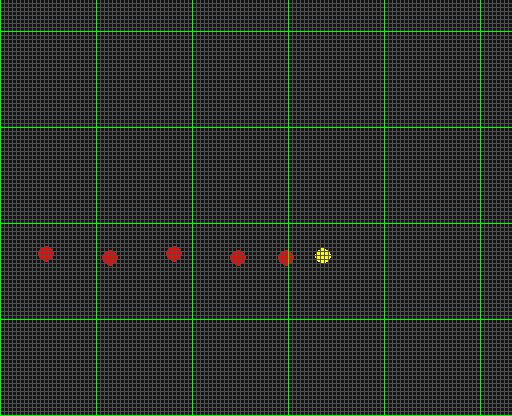
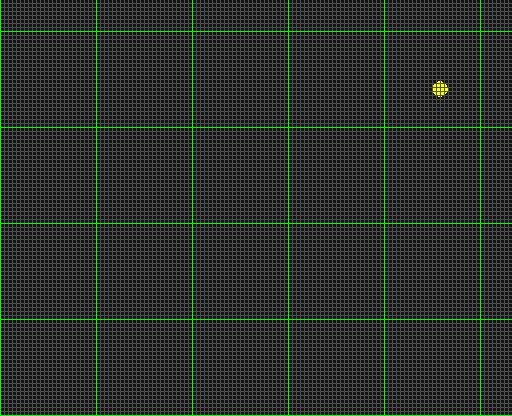
miercoles sem12

diff --git a/Trayectorias/IcivaCliente/Rejilla_Prob_Ocupacion2.py b/Trayectorias/IcivaCliente/Rejilla_Prob_Ocupacion2.py
@@ -4,13 +4,48 @@ from Trayectorias.lib.MotorLib import align, move_forward, control_w, rpd2pwm, s
 from Trayectorias.lib.SerialLib import open_port, close_port, Micro_reset, Micro_comfirm_ACK
 from Trayectorias.lib.ServerLib import *
 import matplotlib.pyplot as plt
+import time
+import numpy as np
+import cv2
 vec = pg.math.Vector2
+
+def unit_vector(vector):
+    """ Returns the unit vector of the vector.  """
+    return vector / np.linalg.norm(vector)
+
+def norm_vector(vector):
+    """ Returns the norm of the vector.  """
+    return np.linalg.norm(vector)
+
+def angle_between(v1, v2):
+    """ Returns the angle in radians between vectors 'v1' and 'v2'::
+
+    """
+    v1_u = unit_vector(v1)
+    v2_u = unit_vector(v2)
+    angle_1 = np.degrees(np.arctan2(v1_u[1], v1_u[0]))
+    angle_2 = np.degrees(np.arctan2(v2_u[1], v2_u[0]))
+    angle = np.arccos(np.dot(v1_u, v2_u))
+
+    if angle_1 < 0:
+        angle_1 = angle_1+360
+    if angle_2 < 0:
+        angle_2 = angle_2+360
+
+    angle_rest = angle_1 - angle_2
+
+    if angle_rest < 180 and angle_rest > 0: # el vector 1 esta por encima del vector 2
+        return -np.degrees(angle)
+    elif angle_rest < -180 : # el vector 1 esta por encima del vector 2
+        return -np.degrees(angle)
+    else:
+        return np.degrees(angle)
 
 Resolucion = 1 # centimetros
 
 # Medidas en metros
-Ancho_Real = 1.44 #metros (minimo 30cm )
-Largo_Real = 1.44 #metros (maximo 1.5 m)
+Ancho_Real = 1.40 #metros (minimo 30cm )b
+Largo_Real = 1.40 #metros (maximo 1.5 m)
 
 # Medidas en centimetros
 Ancho_Real = Ancho_Real*100
@@ -36,34 +71,54 @@ NAME="Rejillas Probabilísticas de Ocupación"
 
 
 game = Visualize(ancho, largo, Resolucion, TILESIZE, NAME)
-
-#port = open_port()  # puerto bluetooth
-#robot_ini, _ = get_robot_pos()  # obtener la posicion del robot
-robot_ini = np.array([50, 50])
+port = open_port()  # puerto bluetooth
+robot_ini, _, balls, enemies = get_all()  # obtener la posicion del robot
 last_pos = robot_ini
-print(robot_ini)
+print("Posicion inicial = {}".format(robot_ini))
 
 game.new()
-#game.Grid.ENEMIGO = vec(robot_ini[0]+10, robot_ini[1])
-#game.Grid.centroide = [vec(robot_ini[0], robot_ini[1]+10)]
-#game.Grid.P_Malas = [game.Grid.ENEMIGO, vec(robot_ini[0], robot_ini[1]+10)]
-#game.Grid.ICIVA = vec(robot_ini[0], robot_ini[1])
+game.Grid.P_Malas = []
 
+# game.Grid.P_Malas = [vec(50, 50)]
+for enemie in enemies:
+    x = int(enemie[0])
+    y = int(enemie[1])
+    game.Grid.P_Malas.append(vec(x, y))
+print("Malas = {}".format(game.Grid.P_Malas))
+
+for ball in balls:
+    x = int(ball[0])
+    y = int(ball[1])
+    game.Grid.centroide.append(vec(x, y))
+print(game.Grid.centroide)
+game.Grid.ICIVA = vec(int(robot_ini[0]), int(robot_ini[1]))
+
+
+FPS = 10
 #game.set_initial_state()
-while game.playing:
+while game.Bandera != 1:
     game.Clock.tick(FPS)
     game.events()
     game.update()
     game.drawing()
 print(game.TRAYECTORIA)
-
+trayectoria = game.TRAYECTORIA
 # Trayectoria obtenida
 print("Trayectoria obtenida")
 tr_obj = np.zeros([0, 2])  # array para guardar x y y de la trayectoria deseada
 tr_obj = np.append(tr_obj, [robot_ini], 0) # Primer punto de la trayectoria, la posicion actual del robot
-for centro in self.Grid.centroide:
-    tr_obj = np.append(tr_obj, [[centro.x, centro.y]], 0)
-
+i = 0
+ball_ini = trayectoria[len(trayectoria)-1]
+for centro in trayectoria:
+    point = np.array([centro[0], centro[1]])
+    ball_vector = np.array([point[0] - ball_ini[0], point[1] - ball_ini[1]])
+    dist_obj = norm_vector(ball_vector)
+    if dist_obj > 8:
+        if i == 12:
+            tr_obj = np.append(tr_obj, [point], 0)
+            i = 0
+        i = i +1
+print(tr_obj)
 # Trayectoria del robot (inicializacion vacia)
 tr_robot = np.zeros([0, 2])  # array para guardar x y y del robot
 
@@ -82,6 +137,7 @@ plt.figure(1)
 plt.xlim([0, 100])
 plt.ylim([0, 100])
 plt.scatter(tr_obj[:, 0], tr_obj[:, 1], c='g')
+plt.scatter(ball_ini[0], ball_ini[1], c=(0, 1, 1))
 plt.ylabel("y (cm)")
 plt.xlabel("x (cm)")
 plt.title("Trayectoria deseada")
@@ -174,7 +230,17 @@ while obj_index < nro_obj:  # Mientras no se alcance el ultimo punto de la traye
         break
 
 
-
+robot_pos, head_vector = get_robot_pos()
+ball_vector = np.array([ball_ini[0] - robot_pos[0], ball_ini[1] - robot_pos[1]])
+angle = angle_between(head_vector, ball_vector)
+alineado = align(angle, 5, 200, 200, port)
+while alineado != 1:
+    # Obtener la posicion del robot
+    print("Alineando con rapidez 0")
+    robot_pos, head_vector = get_robot_pos()
+    tr_robot = np.append(tr_robot, [robot_pos], 0)
+    angle = angle_between(head_vector, ball_vector)
+    alineado = align(angle, 5, 300, 300, port)
 
 cv2.destroyAllWindows()
 print("El carro se ha alineado")
@@ -188,6 +254,7 @@ plt.ylim([0, Largo_Real])
 plt.scatter(tr_robot[:, 0], tr_robot[:, 1], c='b')
 plt.scatter(tr_obj[:, 0], tr_obj[:, 1], c='r')
 plt.scatter(robot_ini[0], robot_ini[1], c='g')
+plt.scatter(ball_ini[0], ball_ini[1], c=(0, 1, 1))
 # plt.quiver(robot_pos[0], robot_pos[1], head_vector[0], head_vector[1], color='r')
 # plt.quiver(robot_pos[0], robot_pos[1], obj[0], obj[1], color='g')
 plt.waitforbuttonpress()

diff --git a/Trayectorias/lib/ServerLib.py b/Trayectorias/lib/ServerLib.py
@@ -1,6 +1,6 @@
 import requests
 import numpy as np
-
+import time
 def circles_robot(response): # busca los circulos del robot en el paquete JSON
     x_cyan = None
     y_cyan = None
@@ -17,7 +17,7 @@ def circles_robot(response): # busca los circulos del robot en el paquete JSON
             x_cyan = list[0][0]*100
             y_cyan = list[0][1]*100
             radius_cyan = list[1]*100
-        elif 'YELLOW' in list:
+        elif 'RED' in list:
             x_yellow = list[0][0]*100
             y_yellow = list[0][1]*100
             radius_yellow = list[1]*100
@@ -26,14 +26,26 @@ def circles_robot(response): # busca los circulos del robot en el paquete JSON
     return x_cyan, y_cyan, radius_cyan, x_yellow, y_yellow, radius_yellow
 
 def get_balls(response): # busca los circulos del robot en el paquete JSON
-
+    balls = np.zeros([0, 2])
     for list in response:
-        if 'RED' in list:
+        if 'YELLOW' in list:
+            x_ball = list[0][0] * 100
+            y_ball = list[0][1] * 100
+            point = np.array([x_ball, y_ball])
+            radius_ball = list[1] * 100
+            balls = np.append(balls, [point], 0)
+    return balls
+
+def get_enemies(response): # busca los circulos del robot en el paquete JSON
+    enemies = np.zeros([0, 2])
+    for list in response:
+        if 'GREEN' in list:
             x_ball = list[0][0]*100
             y_ball = list[0][1]*100
+            point = np.array([x_ball, y_ball])
             radius_ball = list[1]*100
-
-    return (x_ball, y_ball, radius_ball)
+            enemies = np.append(enemies, [point],0)
+    return enemies
 
 def Request(ip, port_server): # el servo que controla phi (plano xy)
     url = "http://"+ ip +":"+ port_server
@@ -46,6 +58,33 @@ def Request(ip, port_server): # el servo que controla phi (plano xy)
 
     return response
 
+
+def get_all():
+    x_cyan = None
+    y_cyan = None
+    x_yellow = None
+    robot_pos = None
+    ball_pos = None
+    head_vector = None
+    while isinstance(x_cyan, type(None)) or isinstance(x_yellow, type(None)):
+        response = Request("127.0.0.1", "8000")
+        if isinstance(response, type(None)):
+            print("Server error...Retrying")
+            time.sleep(0.5)
+        else:
+            x_cyan, y_cyan, radius_cyan, x_yellow, y_yellow, radius_yellow = circles_robot(response)
+            balls = get_balls(response)
+            enemies = get_enemies(response)
+            if isinstance(x_cyan, type(None)) or isinstance(x_yellow, type(None)):
+                print("Error robot pos")
+                time.sleep(0.5)
+            else:
+                # Vectors
+                robot_pos = np.array(
+                    [x_yellow + (x_cyan - x_yellow) / 2, y_yellow + (y_cyan - y_yellow) / 2])  # posicion del robot
+                head_vector = np.array([x_cyan - robot_pos[0], y_cyan - robot_pos[1]])
+
+    return robot_pos, head_vector, balls, enemies
 
 def get_robot_pos():
     x_cyan = None

diff --git a/Trayectorias/lib/RejillaLib.py b/Trayectorias/lib/RejillaLib.py
@@ -274,8 +274,8 @@ class Visualize:
                 rect = pg.Rect(((i * self.tilesize), (-j * self.tilesize) + self.largo - 1 * self.tilesize), (self.tilesize, self.tilesize))
                 # print("X = "+str(i)+" Y = "+str(j))
                 p = self.M_Pint[i][j]
-                G=255
-                #G = abs(int(p*255))
+                #G=255
+                G = abs(int(p*255))
                 if p > 0:
                     COLOR = (G, G, 0)
                 elif p == 0:
@@ -527,7 +527,9 @@ class Visualize:
             if len(ind_) >= 1:
                 agr = len(trayectoria)-1
                 i = int(ind_[0])
-                print(ind_)
+                f = int(ind_[len(ind_)-1])
+                #print(ind_)
+                Nodos_Inter = np.delete(Nodos_Inter, np.s_[i:f], 0)
                 trayectoria = np.delete(trayectoria, agr, 0)
 
                 self.TRAYECTORIA = np.insert(Nodos_Inter, i, trayectoria, 0)
@@ -586,9 +588,13 @@ class Visualize:
         self._draw_nodes(self.Grid, self.ventana)
         self._draw_grid()
         self._draw_grid1()
-        self.Trayectoria(self.Grid, self.ventana)
+        print("Aqui toy")
+        if len(self.Grid.centroide) >= 1:
+            self.Trayectoria(self.Grid, self.ventana)
 
-
+        image = pg.transform.flip(self.ventana, 0, 1)
+        pg.image.save(image, 'abc.jpg')
+        self.ventana.blit(image, (0, 0))
         # self.draw_grid()
         pg.display.flip()
 
@@ -601,19 +607,19 @@ class Visualize:
         for node in Grid.centroide:
             x=int(node.x*self.tilesize+0.5*self.tilesize)
             y = int(node.y * self.tilesize+0.5*self.tilesize)
-            pg.draw.circle(screen, RED, (x,y), int(self.C_cuadros/2)*self.tilesize, 0)
+            pg.draw.circle(screen, YELLOW, (x,y), int(self.C_cuadros/2)*self.tilesize, 0)
             #print("Centroide: "+str(node))
 
         for node in Grid.P_Malas:
             x=int(node.x * self.tilesize+0.5*self.tilesize)
             y = int(node.y * self.tilesize+0.5*self.tilesize)
             if node != self.Grid.ENEMIGO:
-                pg.draw.circle(screen, BLUE, (x,y), int(self.C_cuadros/2)*self.tilesize, 0)
+                pg.draw.circle(screen, GREEN, (x,y), int(self.C_cuadros/2)*self.tilesize, 0)
 
         if self.Grid.ICIVA != None:
             # Vehiculo ICIVA
             rect = pg.Rect(((self.Grid.ICIVA.x * self.tilesize), (self.Grid.ICIVA.y * self.tilesize)), (self.tilesize, self.tilesize))
-            pg.draw.rect(screen, YELLOW, rect)
+            pg.draw.rect(screen, RED, rect)
 
         if self.Grid.ENEMIGO != None:
             # Vehiculo ENEMIGO

diff --git a/ColorBallTracker/ColorTracker.py b/ColorBallTracker/ColorTracker.py
@@ -19,9 +19,9 @@ class ColorTracker:
         # Dictionary of recognized color labels.
         self.RGB_dictionary = OrderedDict({
             "RED": (255, 0, 0),
-            "GREEN": (0, 255, 0),
-            "BLUE": (0, 0, 255),
-            "CYAN": (0, 255, 255),
+            "GREEN": (100, 255, 100),
+            "BLUE": (25, 50, 255),
+            #"CYAN": (0, 255, 255),
             # It doesn't recognize Magenta very well.
             # "MAGENTA": (255, 0, 255),
             "YELLOW": (255, 255, 0),
@@ -32,7 +32,7 @@ class ColorTracker:
 
 
         # Percentage margin for hue, saturation and value.
-        self.margins = { "hue": 0.06,
+        self.margins = { "hue": 0.05,
                         "saturation": 0.2,
                         "value": 0.2
                         }
